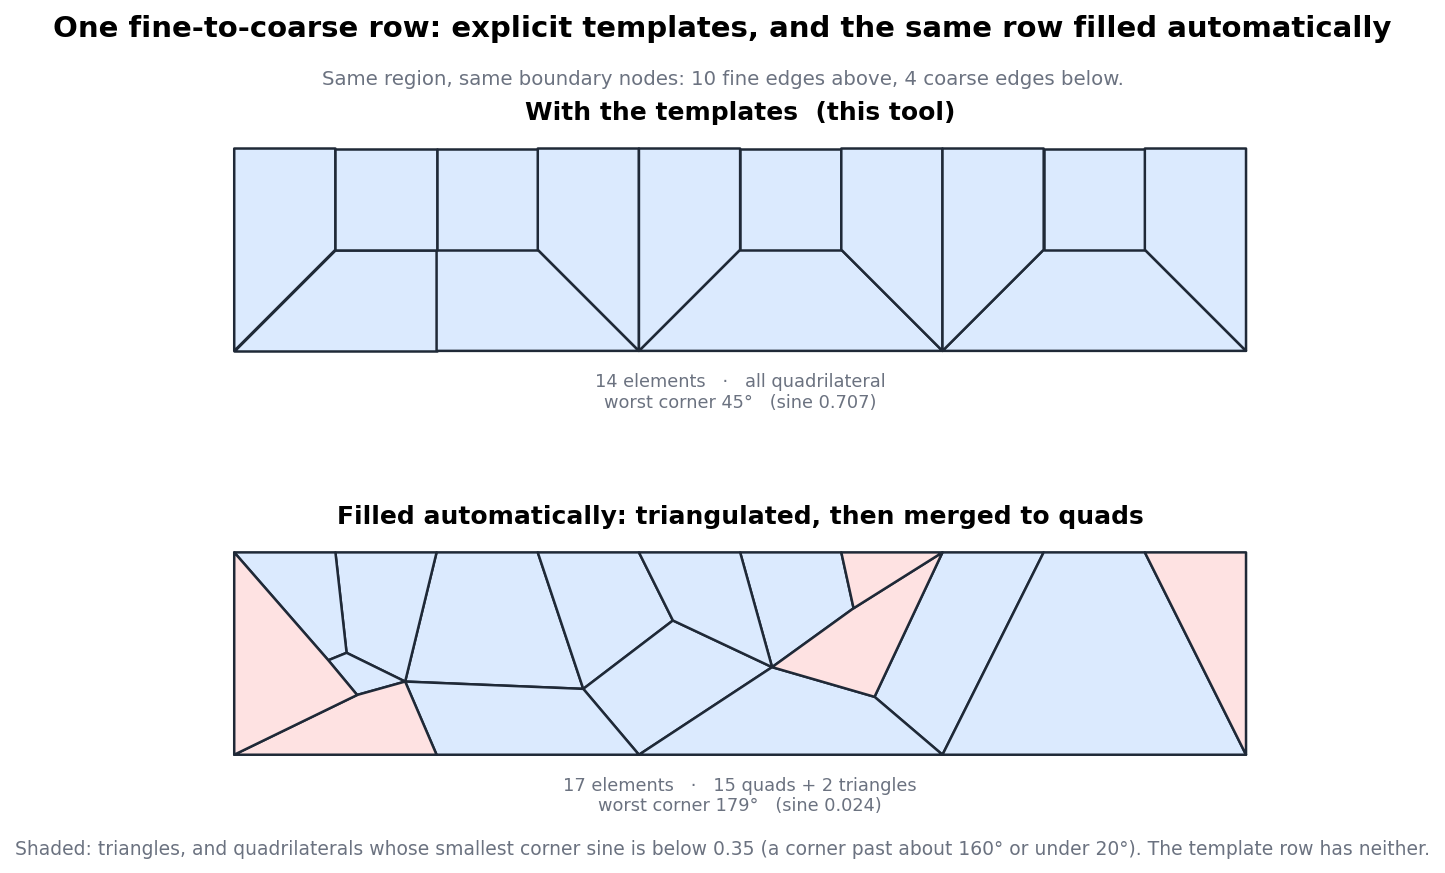
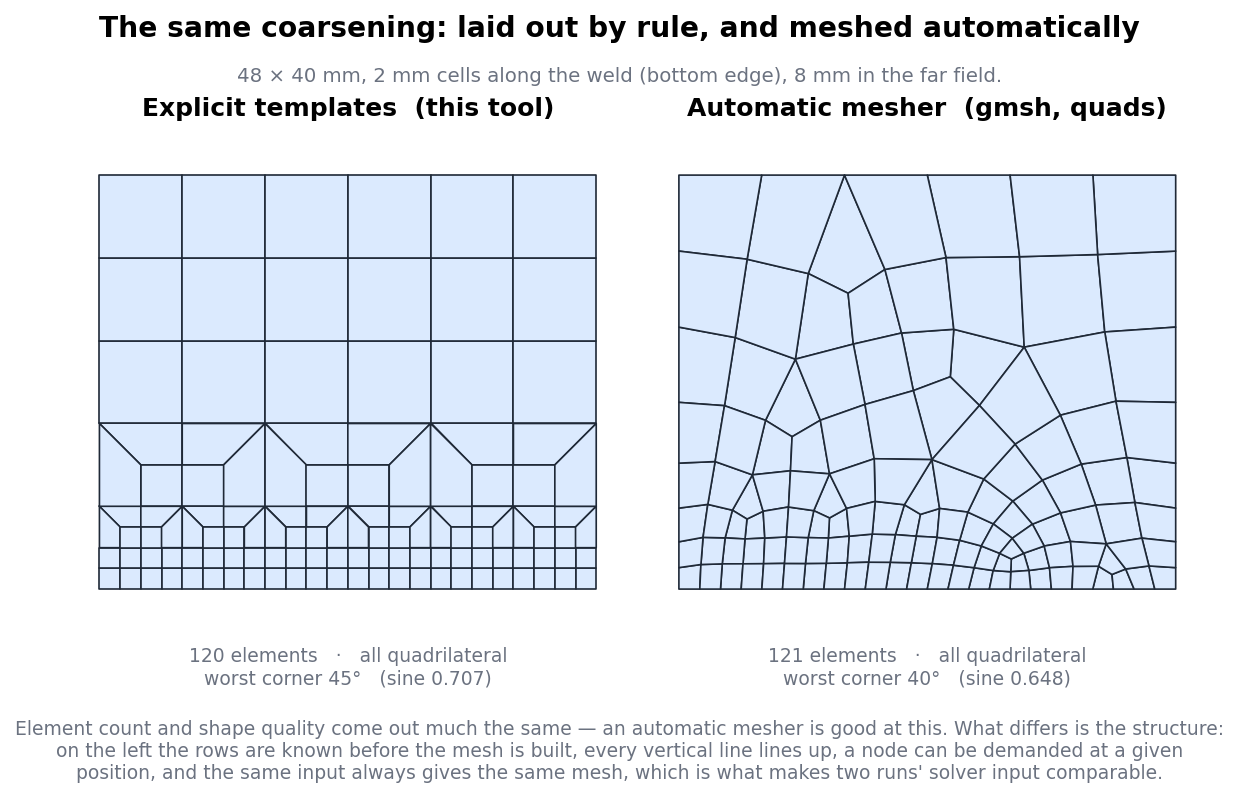
Compare the templates against a real automatic mesher, not a straw man
The automatic panel of the comparison figure was invented: a Delaunay
triangulation merged to quads, with a corner folded to 179 degrees. Checked
against a real automesh of a real part, that is not what an automesher
produces -- its worst corner sine there is 0.505, and the mesh is
hexahedral throughout. The claim was wrong and the figure is replaced.

The same region is now meshed by gmsh (quadrilateral recombination, same
sizes) next to the template mesh: 121 elements against 120, worst corner 40
degrees against 45. An automatic mesher is good at this. What it does not
give is structure -- rows known before the mesh is built, vertical lines
that line up, a node where one is demanded, and the same mesh from the same
input, which is what makes two runs' solver input comparable. The figure
and both READMEs now say that instead.

gmsh joins matplotlib as a figure-only dependency; neither is used by the
pipeline or CI.

diff --git a/tools/make_mesh_figures.py b/tools/make_mesh_figures.py
@@ -4,17 +4,16 @@
 Three figures, all built by running the repository's own code -- nothing is drawn by hand:
 
   transition_templates.png        the two templates themselves (mesh_transition/templates.py), 2->1 pair and 3->1
-  transition_vs_unstructured.png  the same fine-to-coarse region filled with the templates and, for comparison,
-                                filled automatically: a Delaunay triangulation of the same boundary nodes merged
-                                into quadrilaterals where the shape allows, which is how a quad-dominant automatic
-                                mesher fills it -- irregular quads, leftover triangles, sliver corners
+  transition_vs_unstructured.png  the same weld region coarsened by the templates and, for comparison, meshed
+                                automatically by gmsh (quadrilateral recombination, the same sizes). Element count
+                                and shape quality come out much the same; the structure does not
   graded_vs_uniform.png           a weld region graded away from the seam with the templates, against the same region
                                 meshed at the weld size throughout: the element count the grading saves
 
 Every shape number printed on the figures comes from `mesh_transition.quality` (quads) or from the same angle
 definition applied to triangles, computed here at draw time.
 
-Needs matplotlib, which the pipeline itself does not: these figures are regenerated by hand, not in CI.
+Needs matplotlib and gmsh, which the pipeline itself does not: the figures are regenerated by hand, not in CI.
 
 Usage: python tools/make_mesh_figures.py [out_dir]"""
 import io
@@ -139,92 +138,7 @@ def fig_templates(out):
     return save(fig, os.path.join(out, "transition_templates.png"))
 
 
-# ---------------------------------------------------------------- figure 2: templates vs automatic fill
-def merge_to_quads(tris):
-    """Greedily merge adjacent triangle pairs into quadrilaterals, best shape first.
-
-    This is what a quad-dominant automatic mesher does with a triangulation: most pairs become quadrilaterals, the
-    ones that would fold stay triangles, and the result is irregular because the triangulation was."""
-    def key(a, b):
-        return tuple(sorted((tuple(round(v, 9) for v in a), tuple(round(v, 9) for v in b))))
-
-    edges = {}
-    for i, t in enumerate(tris):
-        for k in range(3):
-            edges.setdefault(key(t[k], t[(k + 1) % 3]), []).append((i, k))
-    cand = []
-    for e, uses in edges.items():
-        if len(uses) != 2:
-            continue
-        (i, ki), (j, kj) = uses
-        a, b = tris[i][ki], tris[i][(ki + 1) % 3]
-        quad = [a, tris[j][(kj + 2) % 3], b, tris[i][(ki + 2) % 3]]
-        sine = min_corner_sine(quad)
-        if sine > 0.02:                                      # a pair that would fold stays two triangles
-            cand.append((-sine, i, j, quad))
-    used, out = set(), []
-    for _, i, j, quad in sorted(cand, key=lambda c: c[0]):
-        if i in used or j in used:
-            continue
-        used.update((i, j))
-        out.append(quad)
-    out += [t for i, t in enumerate(tris) if i not in used]
-    return out
-
-
-def unstructured_fill(boundary_fine, boundary_coarse, seed=7):
-    """The band between a fine and a coarse boundary row, meshed automatically instead of with a template:
-    Delaunay triangulation of the same boundary nodes plus a few interior points, then merged to quads."""
-    import random
-
-    import numpy as np
-    from scipy.spatial import Delaunay
-    rnd = random.Random(seed)
-    pts = [tuple(p) for p in boundary_fine] + [tuple(p) for p in boundary_coarse]
-    y0, y1 = boundary_coarse[0][1], boundary_fine[0][1]
-    x0, x1 = min(p[0] for p in pts), max(p[0] for p in pts)
-    for _ in range(9):                                       # a few interior points, as a paver would place them
-        pts.append((x0 + (x1 - x0) * rnd.uniform(0.06, 0.94), y0 + (y1 - y0) * rnd.uniform(0.25, 0.75)))
-    P = np.array(pts)
-    tri = Delaunay(P)
-    tris = []
-    for sx in tri.simplices:
-        q = [tuple(P[i]) for i in sx]
-        cx, cy = sum(v[0] for v in q) / 3.0, sum(v[1] for v in q) / 3.0
-        if min(y0, y1) - 1e-9 <= cy <= max(y0, y1) + 1e-9 and x0 - 1e-9 <= cx <= x1 + 1e-9:
-            if abs(sum(q[k][0] * q[(k + 1) % 3][1] - q[(k + 1) % 3][0] * q[k][1] for k in range(3)) / 2.0) > 1e-9:
-                tris.append(q)
-    return merge_to_quads(tris)
-
-
-def fig_vs_unstructured(out):
-    h, height = 1.0, 2.0
-    m, _ = strip([2, 2, 3, 3], h=h, height=height)            # 10 fine edges -> 4 coarse, the repository's own row
-    tpl = mesh_cells(m)
-    xs = [p[0] for c in tpl for p in c]
-    x0, x1 = min(xs), max(xs)
-    fine_row = [(x0 + k * h, height) for k in range(int(round((x1 - x0) / h)) + 1)]
-    coarse_x = sorted({round(p[0], 9) for c in tpl for p in c if abs(p[1]) < 1e-9})
-    auto = unstructured_fill(fine_row, [(x, 0.0) for x in coarse_x])
-
-    fig, axes = plt.subplots(2, 1, figsize=(9.4, 5.8))
-    fig.suptitle("One fine-to-coarse row: explicit templates, and the same row filled automatically",
-                 fontsize=14, fontweight="bold", y=0.985)
-    fig.text(0.5, 0.905, "Same region, same boundary nodes: 10 fine edges above, 4 coarse edges below.",
-             ha="center", fontsize=9.5, color=MUTED)
-    for ax, (title, cells, tone) in zip(axes, (("With the templates  (this tool)", tpl, GOOD),
-                                               ("Filled automatically: triangulated, then merged to quads", auto, BAD))):
-        fills = [tone if (len(p) == 3 or min_corner_sine(p) < 0.35) else FINE for p in cells]
-        draw_cells(ax, cells, fills=fills, lw=1.2, title=title)
-        caption(ax, fmt(stats(cells)), y=-0.04)
-    fig.text(0.5, 0.02, "Shaded: triangles, and quadrilaterals whose smallest corner sine is below 0.35 "
-                        "(a corner past about 160\u00b0 or under 20\u00b0). The template row has neither.",
-             ha="center", fontsize=9, color=MUTED)
-    fig.subplots_adjust(top=0.845, bottom=0.12, hspace=0.78)
-    return save(fig, os.path.join(out, "transition_vs_unstructured.png"))
-
-
-# ---------------------------------------------------------------- figure 3: graded against uniform
+# ---------------------------------------------------------------- region builders
 def grid(x_edges, y_edges, m=None):
     m = m or Mesh()
     for j in range(len(y_edges) - 1):
@@ -261,8 +175,73 @@ def graded_region(width=48.0, fine=2.0, bands=((2.0, 4.0), (4.0, 8.0)), fine_row
     if not chk["ok"]:                      # a misplaced row leaves hanging nodes: the figure must not hide that
         raise ValueError("graded region is not a conforming mesh: %s"
                          % {k: (len(v) if isinstance(v, list) else v) for k, v in chk.items()
-                            if k in ("hanging_nodes", "non_manifold_edges", "euler_ok", "inverted_elements")})
+                            if k != "ok" and v not in (0, True, [])})
     return m, y
+
+
+def gmsh_region(width=48.0, top=40.0, fine=2.0, coarse=8.0, grow=20.0):
+    """The same region meshed automatically: gmsh, quadrilateral recombination, cells graded from `fine` at the weld
+    edge to `coarse` away from it. A real automatic mesher doing the same job, so the comparison is not a straw man.
+
+    gmsh is needed for this figure only, like matplotlib; the pipeline and CI do not use it."""
+    import gmsh
+    gmsh.initialize()
+    try:
+        gmsh.option.setNumber("General.Terminal", 0)
+        gmsh.model.add("region")
+        pts = [gmsh.model.geo.addPoint(x, y, 0) for x, y in ((0, 0), (width, 0), (width, top), (0, top))]
+        lines_ = [gmsh.model.geo.addLine(pts[k], pts[(k + 1) % 4]) for k in range(4)]
+        gmsh.model.geo.addPlaneSurface([gmsh.model.geo.addCurveLoop(lines_)])
+        gmsh.model.geo.synchronize()
+        d = gmsh.model.mesh.field.add("Distance")                 # distance from the weld edge
+        gmsh.model.mesh.field.setNumbers(d, "CurvesList", [lines_[0]])
+        t = gmsh.model.mesh.field.add("Threshold")
+        gmsh.model.mesh.field.setNumber(t, "InField", d)
+        gmsh.model.mesh.field.setNumber(t, "SizeMin", fine)
+        gmsh.model.mesh.field.setNumber(t, "SizeMax", coarse)
+        gmsh.model.mesh.field.setNumber(t, "DistMin", fine)
+        gmsh.model.mesh.field.setNumber(t, "DistMax", grow)
+        gmsh.model.mesh.field.setAsBackgroundMesh(t)
+        for opt in ("Mesh.MeshSizeExtendFromBoundary", "Mesh.MeshSizeFromPoints", "Mesh.MeshSizeFromCurvature"):
+            gmsh.option.setNumber(opt, 0)
+        gmsh.option.setNumber("Mesh.RecombineAll", 1)
+        gmsh.option.setNumber("Mesh.Algorithm", 8)                # frontal-Delaunay for quads
+        gmsh.option.setNumber("Mesh.RecombinationAlgorithm", 2)
+        gmsh.model.mesh.generate(2)
+        tags, coords, _ = gmsh.model.mesh.getNodes()
+        xy = {int(tag): (float(coords[3 * i]), float(coords[3 * i + 1])) for i, tag in enumerate(tags)}
+        cells = []
+        for etype, _, enodes in zip(*gmsh.model.mesh.getElements(2)):
+            n = {2: 3, 3: 4}.get(etype)
+            if n:
+                ids = list(enodes)
+                cells += [[xy[int(ids[k * n + j])] for j in range(n)] for k in range(len(ids) // n)]
+        return cells
+    finally:
+        gmsh.finalize()
+
+
+# ---------------------------------------------------------------- figure 2: by rule against automatic
+def fig_vs_unstructured(out):
+    g, top = graded_region()
+    gc, ac = mesh_cells(g), gmsh_region(top=top)
+    fig, axes = plt.subplots(1, 2, figsize=(9.6, 5.6))
+    fig.suptitle("The same coarsening: laid out by rule, and meshed automatically",
+                 fontsize=13.5, fontweight="bold", y=0.985)
+    fig.text(0.5, 0.905, "48 \u00d7 %g mm, 2 mm cells along the weld (bottom edge), 8 mm in the far field." % top,
+             ha="center", fontsize=9.5, color=MUTED)
+    for ax, (title, cells) in zip(axes, (("Explicit templates  (this tool)", gc),
+                                         ("Automatic mesher  (gmsh, quads)", ac))):
+        draw_cells(ax, cells, lw=0.8, title=title)
+        caption(ax, fmt(stats(cells)), y=-0.03, size=9)
+    fig.text(0.5, 0.075, "Element count and shape quality come out much the same \u2014 an automatic mesher is good "
+                         "at this. What differs is the structure:\non the left the rows are known before the mesh is "
+                         "built, every vertical line lines up, a node can be demanded at a given\nposition, and the "
+                         "same input always gives the same mesh, which is what makes two runs' solver input "
+                         "comparable.",
+             ha="center", fontsize=9, color=MUTED)
+    fig.subplots_adjust(top=0.845, bottom=0.25, wspace=0.08)
+    return save(fig, os.path.join(out, "transition_vs_unstructured.png"))
 
 
 def fig_graded_vs_uniform(out):

diff --git a/README.md b/README.md
@@ -54,11 +54,14 @@ shared -- no hanging nodes, no triangles, no slivers at the weld.
 
 ![transition templates](docs/images/transition_templates.png)
 
-Filling the same row automatically instead gives what an unstructured mesher leaves behind: irregular quadrilaterals,
-leftover triangles and a corner folded almost flat. Both rows below span the same region between the same boundary
-nodes; the numbers are this repository's own shape metric (`mesh_transition/quality.py`).
+An automatic mesher does this job well: on the same region, gmsh's quadrilateral mesher lands on the same element
+count and much the same element shapes. What it cannot give is structure. On the left the rows are known before the
+mesh is built, every vertical line lines up, a node can be demanded at a given position -- which is how constraints
+and weld-root nodes are placed by coordinate -- and the same input always gives the same mesh, so one run's solver
+input can be compared with another's. The numbers are this repository's own shape metric
+(`mesh_transition/quality.py`).
 
-![templates against an automatic fill](docs/images/transition_vs_unstructured.png)
+![templates against an automatic mesh](docs/images/transition_vs_unstructured.png)
 
 Grading is what the templates buy. The same weld region, with the same cell size along the seam, costs a quarter of
 the elements of a uniform mesh at that size -- and the factor carries into the solve once the face is swept through
@@ -66,8 +69,8 @@ the thickness.
 
 ![graded against uniform](docs/images/graded_vs_uniform.png)
 
-Figures: `python tools/make_mesh_figures.py` (needs matplotlib). Every mesh in them is built by the pipeline's own
-code and checked for hanging nodes before it is drawn.
+Figures: `python tools/make_mesh_figures.py` (needs matplotlib and gmsh, which the pipeline itself does not).
+Every template mesh in them is built by the pipeline's own code and checked for hanging nodes before it is drawn.
 
 ## Support matrix
 

diff --git a/README.zh-CN.md b/README.zh-CN.md
@@ -51,18 +51,20 @@ flowchart LR
 
 ![过渡模板](docs/images/transition_templates.png)
 
-同一行改由自动划分填充，得到的就是非结构网格的典型结果：不规则四边形、剩下的三角形，以及一个几乎压平的角。下面两行
-覆盖同一区域、用同一批边界节点；数值取自本仓库自己的形状度量（`mesh_transition/quality.py`）。
+自动划分器做这件事其实做得不错：同一区域下，gmsh 的四边形划分给出的单元数和单元形状与模板版相当。它给不了的是
+**结构**。左边的行数在划分之前就已知，竖线全部对齐，可以要求某个坐标处必须有节点（约束点和焊根节点就是这样按坐标
+落位的），而且同样的输入永远得到同样的网格——这才使得两次运行的求解输入可以互相对照。数值取自本仓库自己的形状度量
+（`mesh_transition/quality.py`）。
 
-![模板与自动填充对比](docs/images/transition_vs_unstructured.png)
+![模板与自动划分对比](docs/images/transition_vs_unstructured.png)
 
 过渡模板换来的是分级。同一焊接区域、焊缝处同样的单元尺寸，分级后的单元数只有全局细网格的四分之一——面扫掠成体之后，
 这个倍数直接体现在求解上。
 
 ![分级与全局细网格对比](docs/images/graded_vs_uniform.png)
 
-出图：`python tools/make_mesh_figures.py`（需要 matplotlib）。图里每个网格都由流水线自身的代码生成，绘制前先检查过
-悬挂节点。
+出图：`python tools/make_mesh_figures.py`（需要 matplotlib 和 gmsh，流水线本身不需要）。图里模板网格全部由流水线
+自身的代码生成，绘制前先检查过悬挂节点。
 
 ## 支持矩阵
 
